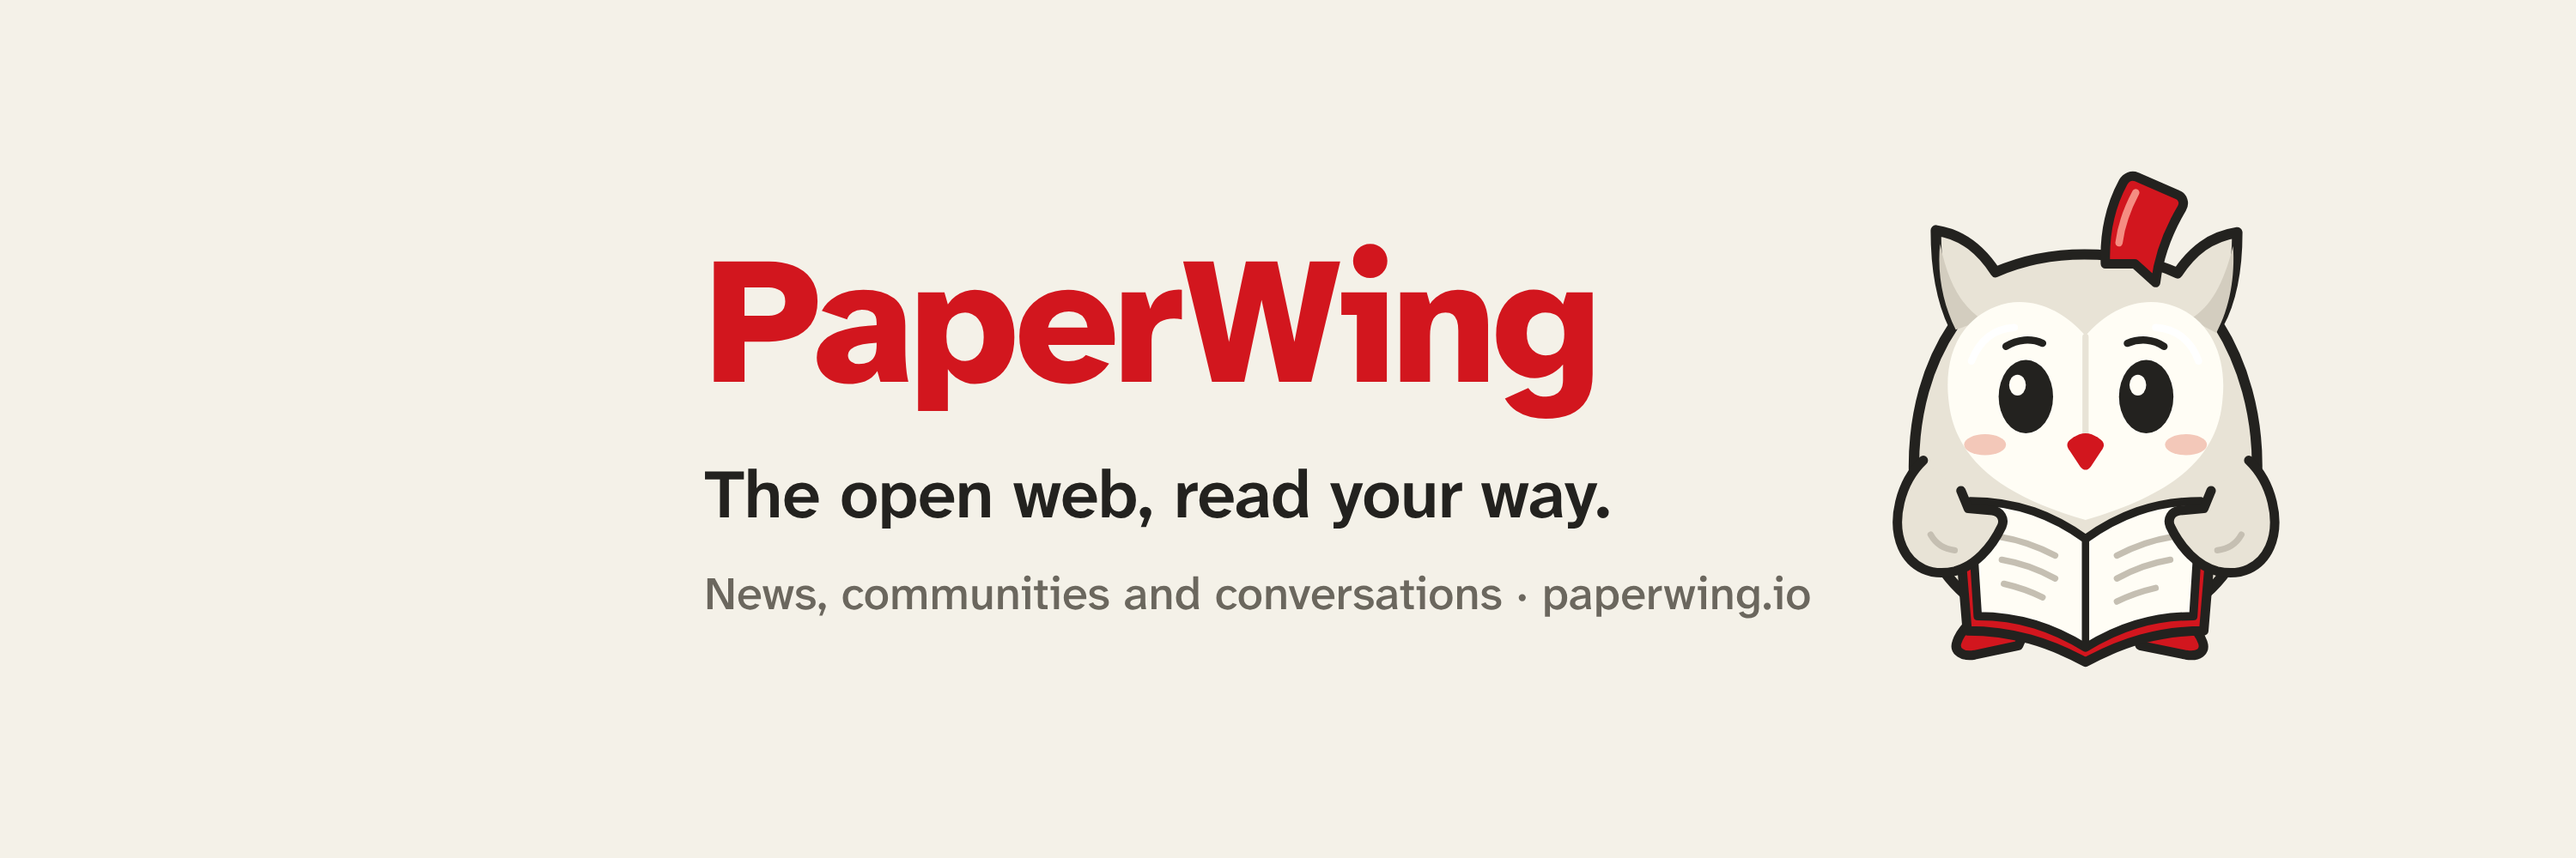
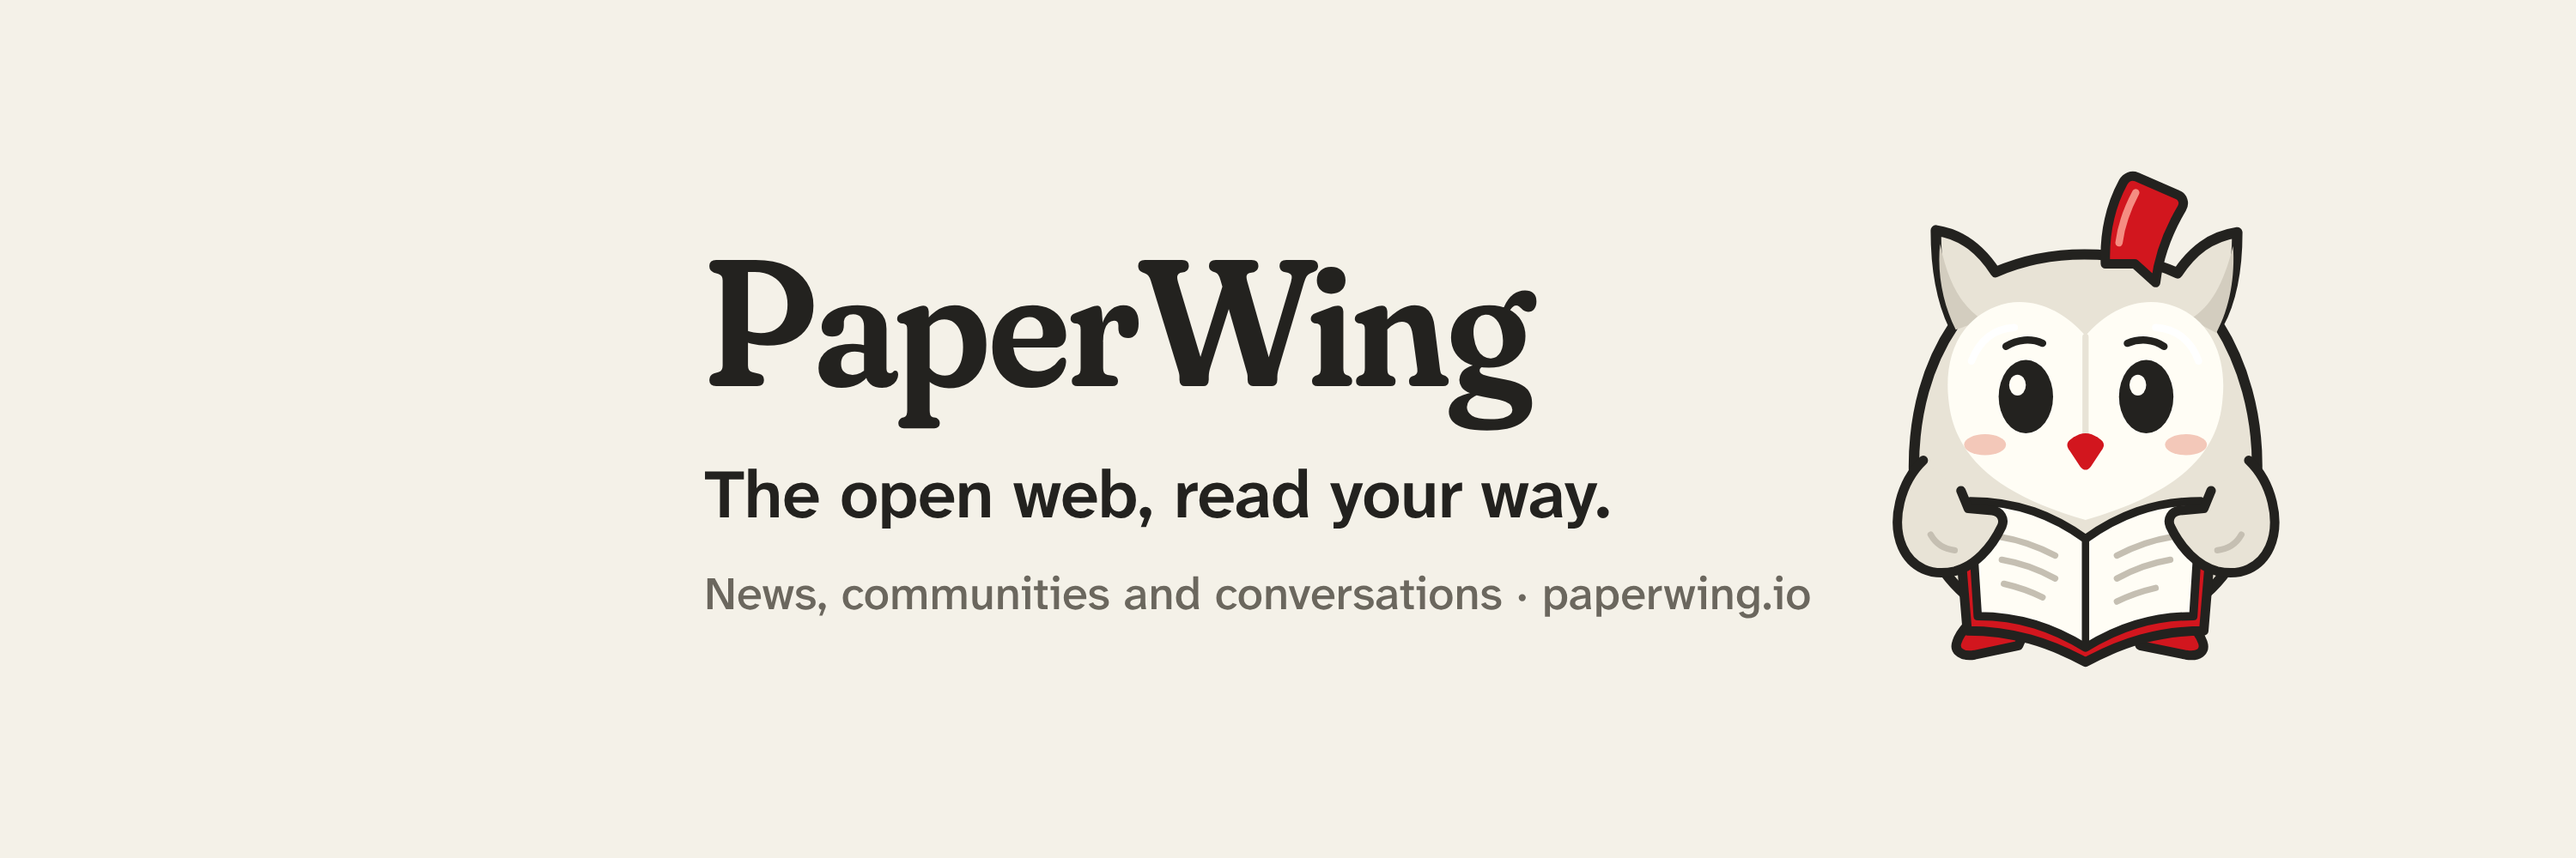
A wordmark of its own: Fraunces, in ink
The heavy red rounded sans read as Reddit. PaperWing is now set in
Fraunces (soft and slightly wonky, 600) in ink, and Pip carries the red:
in the header, the launch splash (which lands on the header's mark), and
the brand artwork, regenerated: the link preview image, the Bluesky
avatar and banner. Fraunces loads for the wordmark only; reading and UI
stay in Atkinson Hyperlegible Next.

Changed region(s): [[0.279, 0.279, 0.62, 0.527]]

diff --git a/src/lib/splash.ts b/src/lib/splash.ts
@@ -11,7 +11,9 @@ import { usePrefs } from './store'
 // skips it.
 
 const TEXT_FAMILY = '"Atkinson Hyperlegible Next Variable", sans-serif'
-const WEIGHT = 800
+/** The wordmark's face (styles.css, .wordmark). */
+const WORD_FAMILY = '"Fraunces Variable", Georgia, serif'
+const WEIGHT = 600
 const WORD = 'PaperWing'
 /** The flight (along the word, then the loop back to land), the unfold, a beat to blink. */
 const ALONG = 640
@@ -139,6 +141,7 @@ export function playSplash(opts: { force?: boolean } = {}): Promise<void> {
   const ground = css.getPropertyValue('--ground').trim() || '#f4f4f1'
   const signal = css.getPropertyValue('--signal').trim() || '#e5484d'
   const quiet = css.getPropertyValue('--ink-3').trim() || '#888'
+  const ink = css.getPropertyValue('--ink').trim() || '#1c1b19'
 
   // The backdrop and the logo are separate layers, so the fade and the glide to the header can run
   // as compositor transitions, smooth even while the app renders underneath.
@@ -156,10 +159,10 @@ export function playSplash(opts: { force?: boolean } = {}): Promise<void> {
     release()
   }
 
-  const fontLoad = document.fonts?.load(`${WEIGHT} 64px ${TEXT_FAMILY}`)
+  const fontLoad = document.fonts?.load(`${WEIGHT} 64px ${WORD_FAMILY}`)
   const timeout = new Promise((r) => setTimeout(r, 700))
   void Promise.race([fontLoad, timeout]).then(() => {
-    if (!document.fonts?.check(`${WEIGHT} 64px ${TEXT_FAMILY}`)) return remove()
+    if (!document.fonts?.check(`${WEIGHT} 64px ${WORD_FAMILY}`)) return remove()
     run()
   })
 
@@ -170,11 +173,11 @@ export function playSplash(opts: { force?: boolean } = {}): Promise<void> {
     // The splash logo: the header's mark and wordmark, scaled up together, as big as fits (Pip's
     // 30px head and an 11px gap beside a 28px word, as in the phone header).
     const probe = document.createElement('canvas').getContext('2d')!
-    probe.font = `${WEIGHT} 100px ${TEXT_FAMILY}`
+    probe.font = `${WEIGHT} 100px ${WORD_FAMILY}`
     const perPx = probe.measureText(WORD).width / 100 + 41 / 28
     const size = Math.min(76, (W * 0.84) / perPx)
     const k = size / 28
-    const font = `${WEIGHT} ${size}px ${TEXT_FAMILY}`
+    const font = `${WEIGHT} ${size}px ${WORD_FAMILY}`
     probe.font = font
     // The word box: 2px either side.
     const wordW = Math.ceil(probe.measureText(WORD).width) + 4
@@ -241,7 +244,8 @@ export function playSplash(opts: { force?: boolean } = {}): Promise<void> {
       // The letters drop into place behind the plane as it passes over each.
       ctx.font = font
       ctx.textBaseline = 'middle'
-      ctx.fillStyle = signal
+      // In ink, as in the header: Pip carries the red.
+      ctx.fillStyle = ink
       if (t >= unfolded) ctx.fillText(WORD, wordX + 2, mid)
       else
         for (const l of letters) {

diff --git a/src/styles.css b/src/styles.css
@@ -1,7 +1,7 @@
 /* PaperWing · custom direction (Hallmark-guided, app scope) · idea: a reading instrument whose one object is where a story is being discussed
  * look: near-neutral ground and ink so text reads first, one signal red on selection, news and the active discussion; topic colour fields for identity
- * faces: Atkinson Hyperlegible Next (all reading and UI, and the wordmark at 800 in signal red), JetBrains Mono (code inside articles only)
- * brand: Pip the paper owl (design/) beside the wordmark; Pip's red is the app's signal red
+ * faces: Atkinson Hyperlegible Next (all reading and UI), Fraunces (the wordmark only, soft and wonky, in ink), JetBrains Mono (code inside articles only)
+ * brand: Pip the paper owl (design/) beside the wordmark; Pip carries the red, the app's signal red
  * refused: eyebrows, tracked caps, mono labels, middle-dot meta, hairline row rules, counting-mark meters, grain, glass blur, cream + serif */
 @import 'tailwindcss';
 
@@ -28,6 +28,7 @@
 :root {
   --font-text: 'Atkinson Hyperlegible Next Variable', ui-sans-serif, sans-serif;
   --font-mark: var(--font-text);
+  --font-wordmark: 'Fraunces Variable', Georgia, 'Times New Roman', serif;
   --font-code: 'JetBrains Mono Variable', ui-monospace, monospace;
 
   /* Light: a near-neutral ground so the words read first; a hair of warmth keeps it from feeling clinical (not cream). */
@@ -194,13 +195,18 @@
     font-variant-numeric: tabular-nums;
   }
 
+  /* PaperWing in Fraunces, soft and a little wonky: paper and print, its own thing. In ink, so Pip
+     beside it carries the red. */
   .wordmark {
-    font-family: var(--font-mark);
-    font-weight: 800;
+    font-family: var(--font-wordmark);
+    font-weight: 600;
+    font-variation-settings:
+      'SOFT' 100,
+      'WONK' 1;
     font-size: 1.75rem;
     line-height: 1;
-    letter-spacing: -0.02em;
-    color: var(--signal);
+    letter-spacing: -0.01em;
+    color: var(--ink);
   }
   /* The mark: Pip's head, sized to sit beside the wordmark. */
   .mark {

diff --git a/src/routes/BrandPage.tsx b/src/routes/BrandPage.tsx
@@ -9,7 +9,12 @@ const INK = '#23221f'
 const RED = 'oklch(0.55 0.215 27)'
 
 function Wordmark({ size }: { size: number }) {
-  return <span style={{ fontFamily: 'var(--font-mark)', fontWeight: 800, fontSize: size, letterSpacing: '-0.03em', color: RED, lineHeight: 1 }}>PaperWing</span>
+  // As in the header (styles.css, .wordmark): Fraunces, soft and wonky, in ink beside Pip's red.
+  return (
+    <span style={{ fontFamily: 'var(--font-wordmark)', fontWeight: 600, fontVariationSettings: "'SOFT' 100, 'WONK' 1", fontSize: size, letterSpacing: '-0.01em', color: INK, lineHeight: 1 }}>
+      PaperWing
+    </span>
+  )
 }
 
 export function BrandPage() {
@@ -29,7 +34,7 @@ export function BrandPage() {
       <div style={{ position: 'absolute', inset: 0, display: 'grid', placeItems: 'center' }}>
         <Pip variant="head" className="block" title="Pip" />
         <style>{`#asset svg { width: 720px; height: 720px; margin-top: 40px }`}</style>
-      </div>,
+      </div>
     )
 
   if (asset === 'banner')
@@ -47,7 +52,7 @@ export function BrandPage() {
         <div style={{ position: 'absolute', right: 180, top: 110, width: 780, height: 780 }}>
           <Pip variant="full" className="block size-full" title="Pip" />
         </div>
-      </>,
+      </>
     )
 
   // The link preview: what a share of paperwing.io shows on Bluesky, Slack, iMessage and the rest.
@@ -65,6 +70,6 @@ export function BrandPage() {
       <div style={{ position: 'absolute', right: 40, top: 55, width: 520, height: 520 }}>
         <Pip variant="full" className="block size-full" title="Pip" />
       </div>
-    </>,
+    </>
   )
 }

diff --git a/src/main.tsx b/src/main.tsx
@@ -1,6 +1,8 @@
 import '@fontsource-variable/atkinson-hyperlegible-next'
 import '@fontsource-variable/atkinson-hyperlegible-next/wght-italic.css'
 import '@fontsource-variable/jetbrains-mono'
+// The wordmark's face, with its soft and wonky axes.
+import '@fontsource-variable/fraunces/full.css'
 import { PersistQueryClientProvider } from '@tanstack/react-query-persist-client'
 import { StrictMode } from 'react'
 import { createRoot } from 'react-dom/client'
@@ -27,7 +29,7 @@ void splash.then(() => {
       <PersistQueryClientProvider client={queryClient} persistOptions={{ persister, maxAge: PERSIST_MAX_AGE, buster: PERSIST_BUSTER, dehydrateOptions }}>
         <App />
       </PersistQueryClientProvider>
-    </StrictMode>,
+    </StrictMode>
   )
   setupPWA()
   startSync()

diff --git a/.storybook/preview.tsx b/.storybook/preview.tsx
@@ -1,6 +1,7 @@
 import '@fontsource-variable/atkinson-hyperlegible-next'
 import '@fontsource-variable/atkinson-hyperlegible-next/wght-italic.css'
 import '@fontsource-variable/jetbrains-mono'
+import '@fontsource-variable/fraunces/full.css'
 import '../src/styles.css'
 import type { Preview } from '@storybook/react-vite'
 import { withApp } from './harness'

diff --git a/.changeset/new-wordmark.md b/.changeset/new-wordmark.md
@@ -1,0 +1,5 @@
+---
+"paperwing": minor
+---
+
+improved: **A wordmark of its own.** PaperWing's name is now set in a soft serif in ink, with Pip carrying the red, in the app, the opening animation and link previews.
